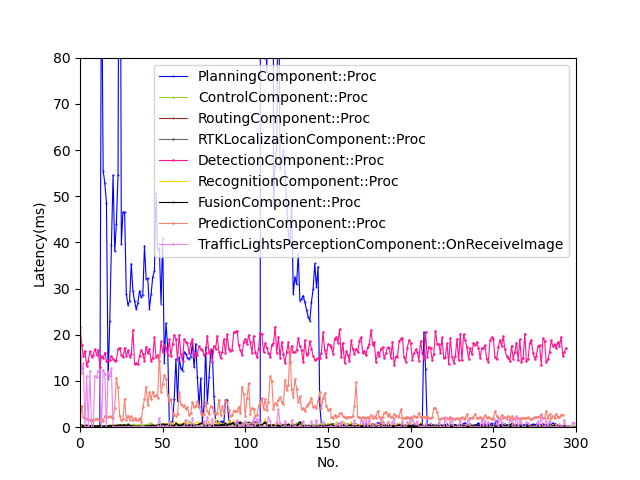
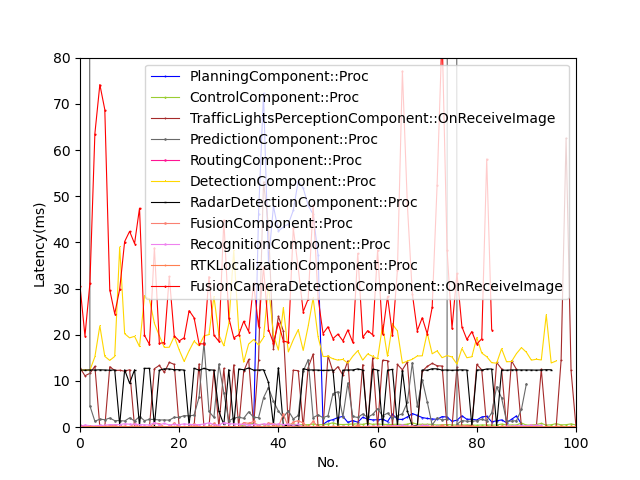
[Yuting] clang-format

diff --git a/um_dev/profiling/result_writer.cc b/um_dev/profiling/result_writer.cc
@@ -4,11 +4,12 @@
 
 #include "um_dev/profiling/result_writer.h"
 
-#include "um_dev/utils/files.h"
+#include <assert.h>
+#include <unistd.h>
 
 #include <iostream>
-#include <unistd.h>
-#include <assert.h>
+
+#include "um_dev/utils/files.h"
 
 namespace um_dev {
 namespace profiling {
@@ -16,11 +17,12 @@ namespace profiling {
 ProfilingResultWriter* ProfilingResultWriter::instance_ =
     new ProfilingResultWriter();
 
-ProfilingResultWriter::ProfilingResultWriter() : throttle_threshold_(1.f), profiling_scenario_("lgsvl") {
+ProfilingResultWriter::ProfilingResultWriter()
+    : throttle_threshold_(1.f), profiling_scenario_("lgsvl_radar") {
   // Make profiling output directory for this time
   apollo::cyber::Time now = apollo::cyber::Time::Now();
-  const std::string result_dir = 
-    "/apollo/um_dev/profiling/results/" + profiling_scenario_;
+  const std::string result_dir =
+      "/apollo/um_dev/profiling/results/" + profiling_scenario_;
   // FIXME: (yuting) unable to mkdir
   // assert(um_dev::utils::um_mkdir(result_dir));
   // std::cout << "Profiling result path created: " + result_dir << std::endl;
@@ -30,7 +32,6 @@ ProfilingResultWriter::ProfilingResultWriter() : throttle_threshold_(1.f), profi
   // Open result files here
   auto time_str = now.ToString();
   fout_.open(result_dir + "/profiling_" + time_str + '_' + pid_str + ".log");
-
 }
 
 ProfilingResultWriter::~ProfilingResultWriter() {
@@ -41,7 +42,8 @@ ProfilingResultWriter::~ProfilingResultWriter() {
 
 ProfilingResultWriter& ProfilingResultWriter::Instance() { return *instance_; }
 
-bool ProfilingResultWriter::write_to_file(PROFILING_METRICS profiling_type, const std::string& task_name,
+bool ProfilingResultWriter::write_to_file(PROFILING_METRICS profiling_type,
+                                          const std::string& task_name,
                                           const std::string& content) {
   {
     std::lock_guard<std::mutex> lock(mutex_map_);
@@ -49,7 +51,8 @@ bool ProfilingResultWriter::write_to_file(PROFILING_METRICS profiling_type, cons
     auto it = task_to_timestamp_.find(task_name);
     if (it == task_to_timestamp_.end()) {
       task_to_timestamp_[task_name] = now;
-    } else if (now - it->second < apollo::cyber::Duration(throttle_threshold_)) {
+    } else if (now - it->second <
+               apollo::cyber::Duration(throttle_threshold_)) {
       return true;
     } else {
       it->second = now;

diff --git a/um_dev/profiling/analyse/data_visualization.py b/um_dev/profiling/analyse/data_visualization.py
@@ -14,8 +14,7 @@ COLORS = ['blue', 'yellowgreen', 'brown',
 
 MARKERS = ['.', '^', '*', 'D', 'o', ',', '_', 's', 'p']
 
-def load_data_from_file(file_path):
-  result = {}
+def load_data_from_file(file_path, results):
   with open(file_path) as f:
     for line in f.readlines():
       line = line.strip()
@@ -24,42 +23,38 @@ def load_data_from_file(file_path):
       _, task, time = line.split()
       task = task.strip(':')
       time = float(time.strip('ms'))
-      if task in result:
-        result[task].append(time)
+      if task in results:
+        results[task].append(time)
       else:
-        result[task] = [time]
-  return result
+        results[task] = [time]
 
 def load_data_from_dir(dir_path):
-  results = []
+  results = {}
   for root, dirs, files in os.walk(dir_path):
     for file in files:
       file = os.path.join(root, file)
-      result = load_data_from_file(file)
-      if len(result) > 0:
-        results.append(result)
+      load_data_from_file(file, results)
   return results
 
 def plot_data(results):
   idx = 0
-  for result in results:
-    for task_name, data_list in result.items():
-      data = np.array(data_list)
-      # data = np.log(data)
-      plt.plot(range(len(data_list)), data,
-               color=COLORS[idx % len(COLORS)],
-               label=task_name,
-               marker=MARKERS[idx % len(MARKERS)],
-               linewidth=0.8,
-               markersize=0.8)
-      plt.ylabel("Latency(ms)")
-      plt.xlabel("No.")
-      idx += 1
+  for task_name, data_list in results.items():
+    data = np.array(data_list)
+    # data = np.log(data)
+    plt.plot(range(len(data_list)), data,
+             color=COLORS[idx % len(COLORS)],
+             label=task_name,
+             marker=MARKERS[idx % len(MARKERS)],
+             linewidth=0.8,
+             markersize=0.8)
+    plt.ylabel("Latency(ms)")
+    plt.xlabel("No.")
+    idx += 1
   plt.legend()
-  plt.axis([0, 300, 0, 80])
+  plt.axis([0, 100, 0, 80])
   plt.savefig("result.png")
   plt.show()
 
 if __name__ == "__main__":
-  results = load_data_from_dir("/home/tt/Codes/apollo/um_dev/profiling/results/lgsvl")
+  results = load_data_from_dir("/home/tt/Codes/apollo/um_dev/profiling/results/lgsvl_radar")
   plot_data(results)

diff --git a/um_dev/utils/files.cc b/um_dev/utils/files.cc
@@ -6,31 +6,32 @@ namespace um_dev {
 namespace utils {
 
 bool um_mkdir(const std::string &path) {
-    if (access(path.c_str(), 0) == -1) {
-        auto err = mkdir(path.c_str(), S_IRWXU | S_IRWXG | S_IRWXO); // 777
-        if (err != 0) {
-            std::cout << "Enable to mkdir: " << path << ", errno = " << err << std::endl;
-            return false;
-        }
-        if (access(path.c_str(), 0) == -1) {
-            std::cout << "mkdir failed: " << path << ", errno = " << err << std::endl;
-            return false;
-        }
-        return true;
+  if (access(path.c_str(), 0) == -1) {
+    auto err = mkdir(path.c_str(), S_IRWXU | S_IRWXG | S_IRWXO);  // 777
+    if (err != 0) {
+      std::cout << "Enable to mkdir: " << path << ", errno = " << err
+                << std::endl;
+      return false;
     }
-    return false;
+    if (access(path.c_str(), 0) == -1) {
+      std::cout << "mkdir failed: " << path << ", errno = " << err << std::endl;
+      return false;
+    }
+    return true;
+  }
+  return false;
 }
 
 bool um_rmdir(const std::string &path) {
-    if (access(path.c_str(), 0) == -1) {
-        return true;
-    }
-    auto err = rmdir(path.c_str());
-    if (err != 0) {
-        return false;
-    }
+  if (access(path.c_str(), 0) == -1) {
     return true;
+  }
+  auto err = rmdir(path.c_str());
+  if (err != 0) {
+    return false;
+  }
+  return true;
 }
 
-}  // utils
-}  // um_dev
+}  // namespace utils
+}  // namespace um_dev

diff --git a/um_dev/profiling/result_writer.h b/um_dev/profiling/result_writer.h
@@ -6,9 +6,9 @@
 #define RESULT_WRITER_H
 
 #include <fstream>
+#include <map>
 #include <mutex>
 #include <string>
-#include <map>
 
 #include "cyber/time/time.h"
 
@@ -26,8 +26,8 @@ class ProfilingResultWriter {
   ProfilingResultWriter(ProfilingResultWriter&) = delete;
   ~ProfilingResultWriter();
   static ProfilingResultWriter& Instance();
-  bool write_to_file(PROFILING_METRICS profiling_type, const std::string& task_name,
-                     const std::string& content);
+  bool write_to_file(PROFILING_METRICS profiling_type,
+                     const std::string& task_name, const std::string& content);
 
  private:
   ProfilingResultWriter();
@@ -36,7 +36,7 @@ class ProfilingResultWriter {
   static ProfilingResultWriter* instance_;
   static std::mutex mutex_instance_;
 
-  const float throttle_threshold_; // throttle threshold in second
+  const float throttle_threshold_;  // throttle threshold in second
   std::string profiling_scenario_;
 
   std::map<std::string, apollo::cyber::Time> task_to_timestamp_;

diff --git a/um_dev/profiling/timing/timing.cc b/um_dev/profiling/timing/timing.cc
@@ -20,8 +20,8 @@ UM_Timing::~UM_Timing() {
   long long ns = duration.ToNanosecond();
   double ms = ns * NANO_TO_MICRO * MICRO_TO_MILLI;
   std::string timing_result = taskname_ + ": " + std::to_string(ms) + "ms";
-  ProfilingResultWriter::Instance().write_to_file(PROFILING_METRICS::TIMING, taskname_,
-                                                  timing_result);
+  ProfilingResultWriter::Instance().write_to_file(PROFILING_METRICS::TIMING,
+                                                  taskname_, timing_result);
 }
 
 }  // namespace profiling

diff --git a/um_dev/utils/files.h b/um_dev/utils/files.h
@@ -1,8 +1,9 @@
 #ifndef FILES_H
 #define FILES_H
 
-#include <unistd.h>
 #include <sys/stat.h>
+#include <unistd.h>
+
 #include <string>
 
 namespace um_dev {
@@ -11,11 +12,7 @@ namespace utils {
 bool um_mkdir(const std::string &path);
 bool um_rmdir(const std::string &path);
 
-}  // utils
-}  // um_dev
-
-
-
-
+}  // namespace utils
+}  // namespace um_dev
 
 #endif
